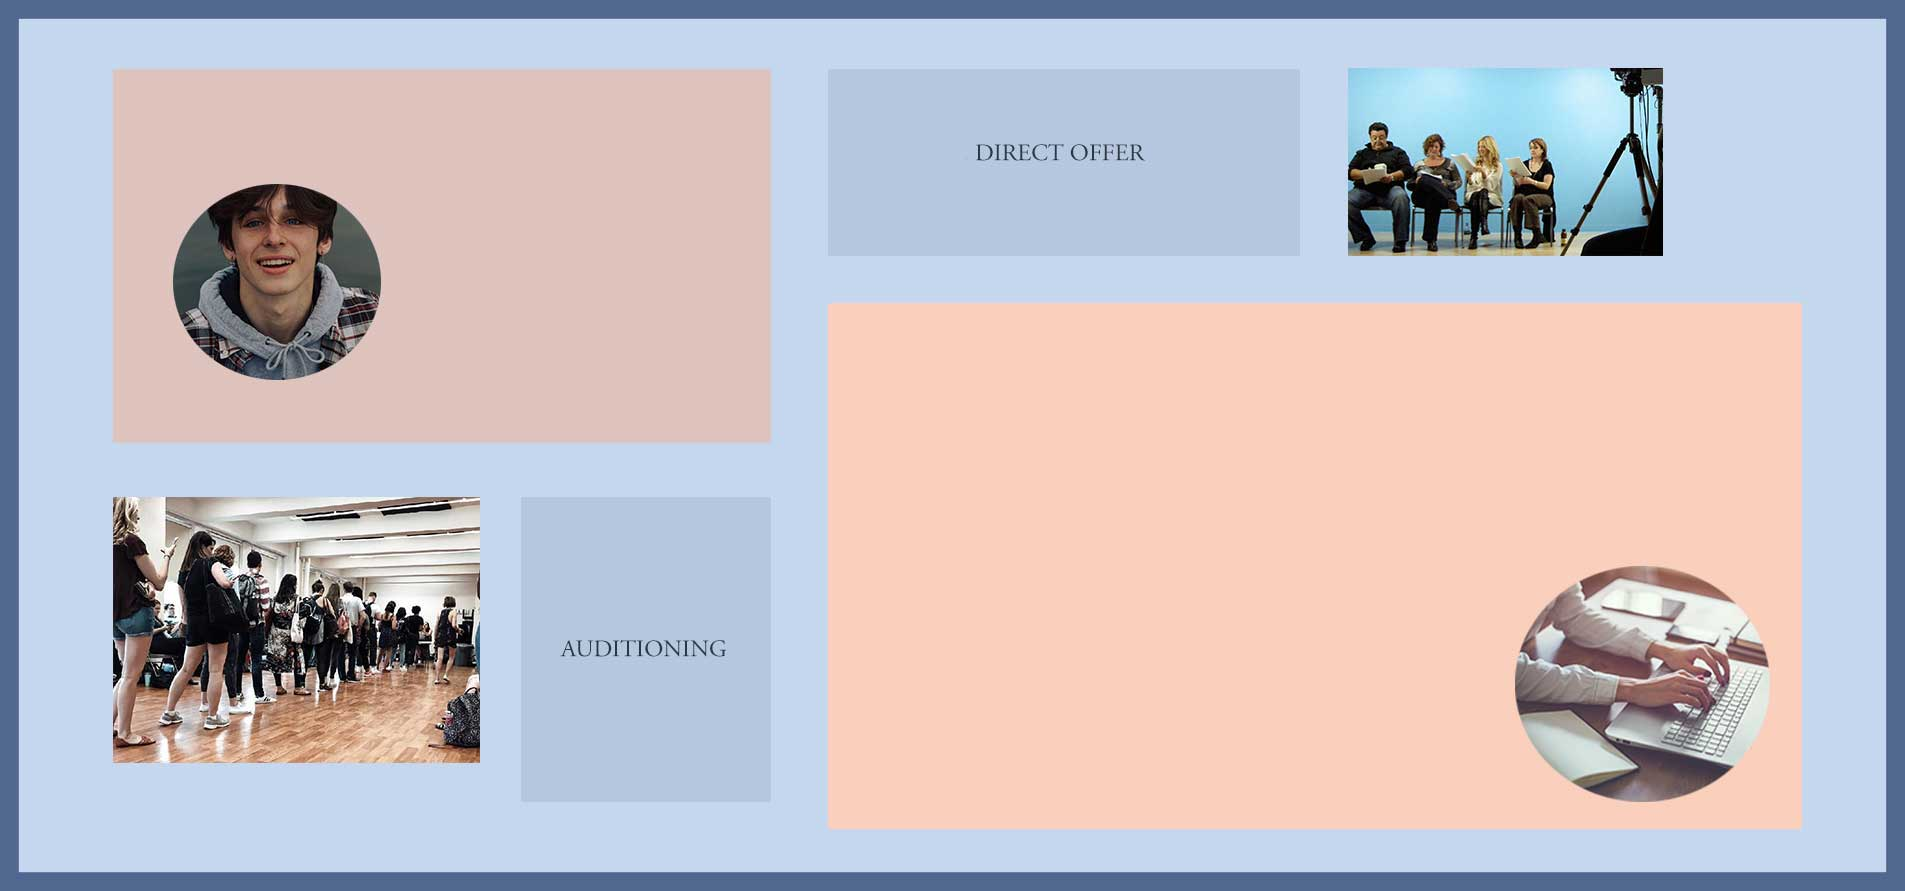
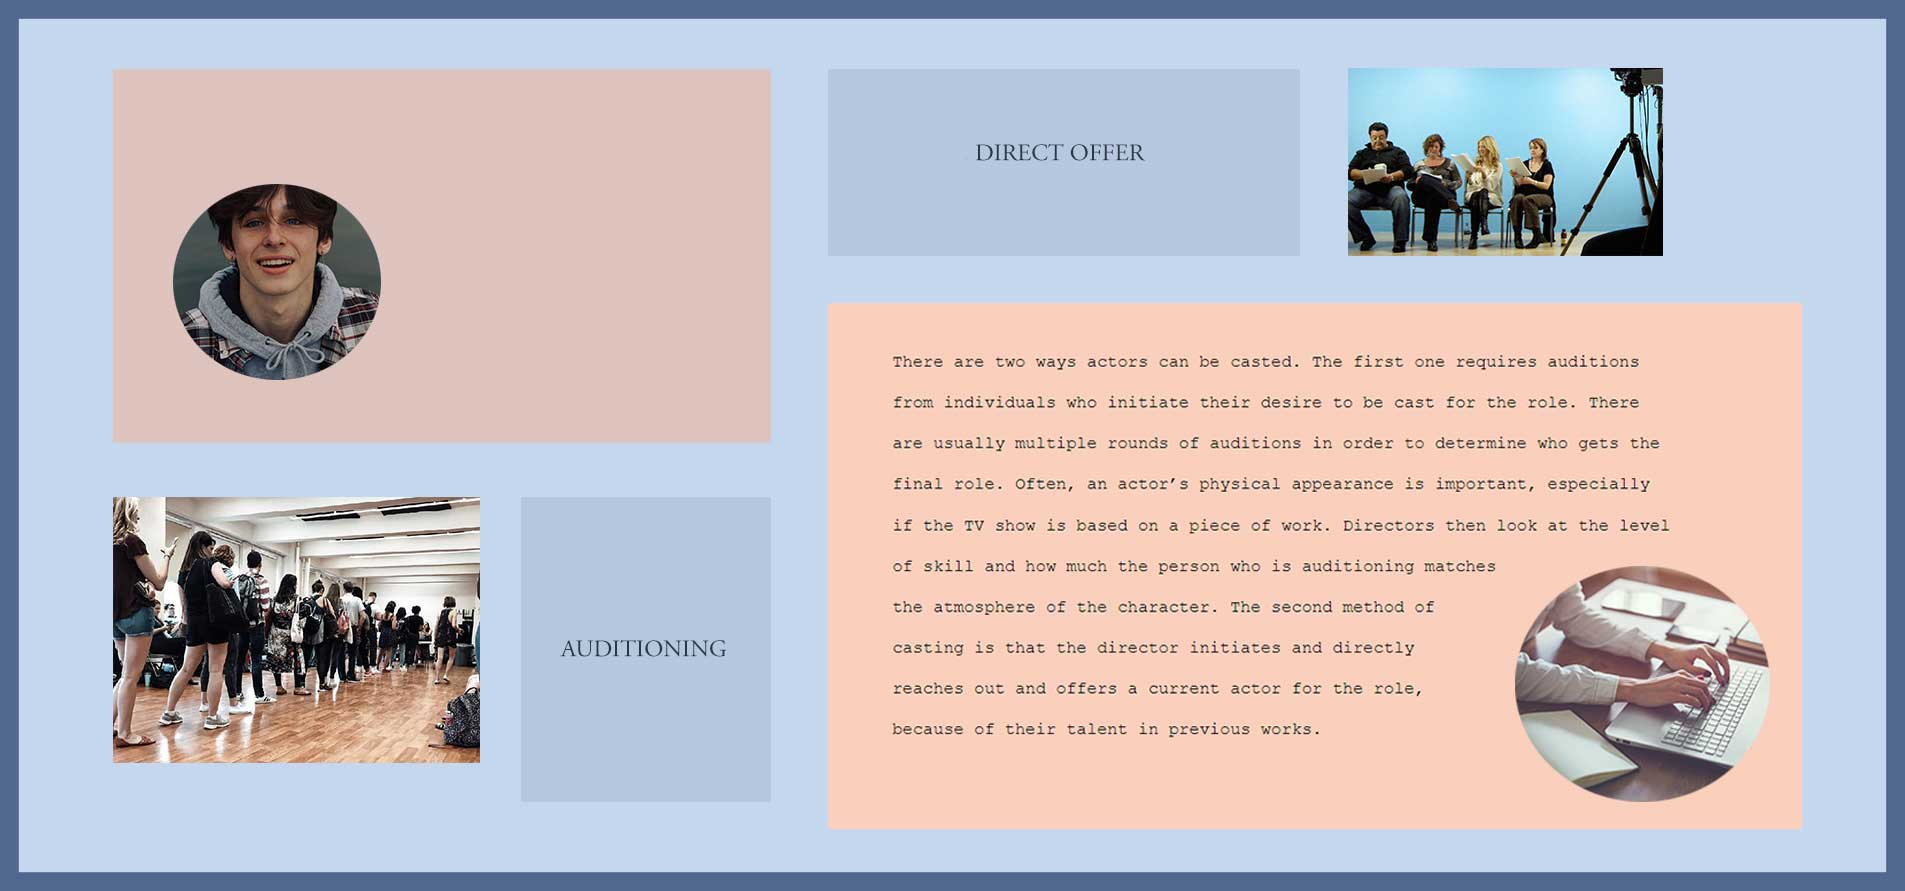
.

diff --git a/index.html b/index.html
@@ -52,18 +52,18 @@
 		</div>
 		<div id = "theartdepartmentdiv">
 			<h2 id = "theartdepartment">The Art Department</h2>
-			<p>The art department is responsible for creating the overall look and the specific details. The production designer usually leads everything. There are various things to do in the art department, like designing the clothing styles and costumes, props, and how sets will look. If the show is taking place in a different time period, especially the past, the art department researches the customs people had back then. This includes the clothes they wore to the objects from that timeline. 
+			<p id = "theartdepartmentparagraph"> <span id = "theartdepartmentp">The art department is responsible for creating the overall look and the specific details. The production designer usually leads everything. There are various things to do in the art department, like designing the clothing styles and costumes, props, and how sets will look. If the show is taking place in a different time period, especially the past, the art department researches the customs people had back then. This includes the clothes they wore to the objects from that timeline. </span>
 			</p>
 		</div>
 		<div id = "castingactorsdiv">
 			<h2 id = "castingactorsheading"> <span> Casting </span> <span>Actors</span> </h2>
 			<!--direct offer is not present but present in background image because of troubleshoots-->
 			<!--two paragraphs instead of two "span"s because of troubleshoots-->
-			<p id = "castingactorsp"> There are two ways actors can be casted. The first one requires auditions from individuals who initiate their desire to be cast for the role. There are usually multiple rounds of auditions in order to determine who gets the final role. Often, an actor&rsquo;s physical appearance is important, especially if the TV show is based on a piece of work. Directors then look at the level of skill and how much the person who is auditioning matches
+			<p id = "castingactorsp"> <!--There are two ways actors can be casted. The first one requires auditions from individuals who initiate their desire to be cast for the role. There are usually multiple rounds of auditions in order to determine who gets the final role. Often, an actor&rsquo;s physical appearance is important, especially if the TV show is based on a piece of work. Directors then look at the level of skill and how much the person who is auditioning matches
 			</p>
 			
 			<p id = "castingactorsp2"> the atmosphere of the character. The second method of casting is that the director initiates and directly reaches out and offers a current actor for the role, because of their talent in previous works.
-			</p>
+			</p>-->
 		</div>
 		
 		<div id = "scheduling">

diff --git a/Post-Production.html b/Post-Production.html
@@ -49,7 +49,8 @@
 		</div>
 		<div id = "sounddesigningdiv">
 			<h2 id = "sounddesigning">Sound Designing</h2>
-			<p id = "sounddesigningparagraph"> Sound designing includes making original soundtracks and sound editing. Sound editors put together the audio tracks of the show, cutting dialogue, and adding sound effects. The sound effects are often created by a Foley artist, who recreates sounds. They use unique methods and many materials to recreate noises. Sometimes, actors record their voices over a scene if the sound wasn&rsquo;t captured properly during the take of the scene, or for other purposes, like when a character is thinking about something. This is called &quot;Automated Dialogue Replacement&quot;(ADR). As for the music, it is always best to have original soundtracks (OSTs), because it is quite tedious to figure out all the copyright laws with other people&rsquo;s music. Once all the recordings are finished, sound mixers put the tracks together, adjust volumes, and remove unnecessary sounds.
+			<p id = "sounddesigningp"> <span id = "sounddesigningparagraph"> Sound designing includes making original soundtracks and sound editing. Sound editors put together the audio tracks of the show, cutting dialogue, and adding sound effects. The sound effects are often created by a Foley artist, who recreates sounds. They use unique methods and many materials to recreate noises. Sometimes, actors record their voices over a scene if the sound wasn&rsquo;t captured properly during the take of the scene, or for other purposes, like when a character is thinking about something. This is called &quot;Automated Dialogue Replacement&quot;(ADR). As for the music, it is always best to have original soundtracks (OSTs), because it is quite tedious to figure out all the copyright laws with other people&rsquo;s music. Once all the recordings are finished, sound mixers put the tracks together, adjust volumes, and remove unnecessary sounds.
+			</span>
 			</p>
 		</div>
 		<div id = "visualeffectsdiv">

diff --git a/MakingTvShows.css b/MakingTvShows.css
@@ -141,6 +141,7 @@ td{
 #production
 {
 	background-image:url("Images/Production.jpg");
+	margin-top:5%;
 }
 
 #post-production
@@ -225,14 +226,17 @@ h2
 	
 }
 
-#theartdepartmentdiv p{
+#theartdepartmentp{
+sounddesigning
+}
+#theartdepartmentparagraph
+{
 	margin-top:3%;
 	margin-right:35%;
 	margin-left:35%;
 	padding-top:0%;
 	padding-right:3%;
 	color:#788149;
-	background-color:#E6CDC6;
     background-repeat: no-repeat;
     background-size: 100%, 100%;
 }
@@ -258,11 +262,11 @@ h2
 #castingactorsdiv
 {	
 	background-image:url("Images/castingactorsbackground.jpg");
-	padding-bottom:1%;
+	padding-bottom:40%;
 	background-repeat:no-repeat;
 	padding-top:5%;
 	font-family:"Courier New", monospace;
-	margin-bottom:0%;
+	margin-bottom:5%;
 	background-size:100%;
 }
 
@@ -411,7 +415,7 @@ h2
 	margin-top:1px;
 	padding-bottom:7%;
 	background-repeat:no-repeat;
-	margin-bottom:1px;
+	margin-bottom:5%;
 }
 #editing
 {
@@ -432,10 +436,10 @@ h2
 {
 	background-image:url("Images/sounddesigningbackground.jpg");
 	background-size:98% 100%;
-	padding-bottom:3%;
+	padding-bottom:7%;
 	padding-left:30%;
 	margin-right:0%;
-	margin-top:1px;
+	margin-top:10%;
 	margin-top:1px;
 	padding-right:0%;
 }	
@@ -450,10 +454,18 @@ h2
 }	
 #sounddesigningparagraph
 {
-	margin-right:50%;
+
 	font-size:90%;
 	background-color:#E6CDC6;
+	padding:0.1em 0.2em;
+
 }
+#sounddesigningp
+{	
+	margin-right:50%;
+	font-size:90%;
+}
+	
 #visualeffectsdiv
 {
 	background-image:url("Images/visualeffectsbackground.jpg");
